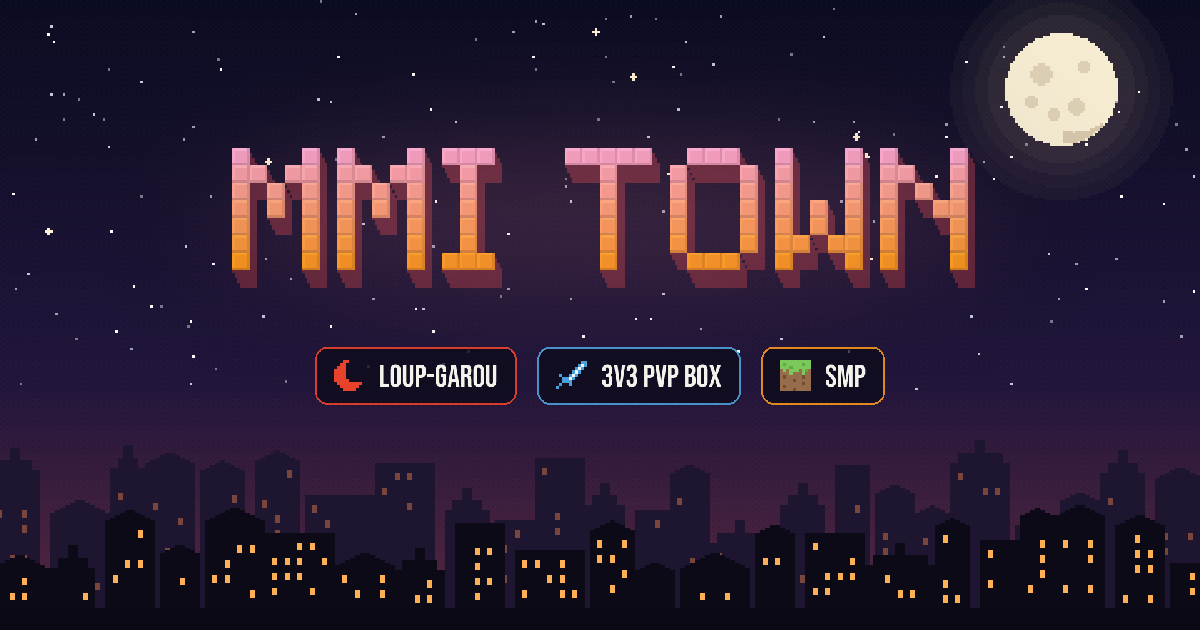
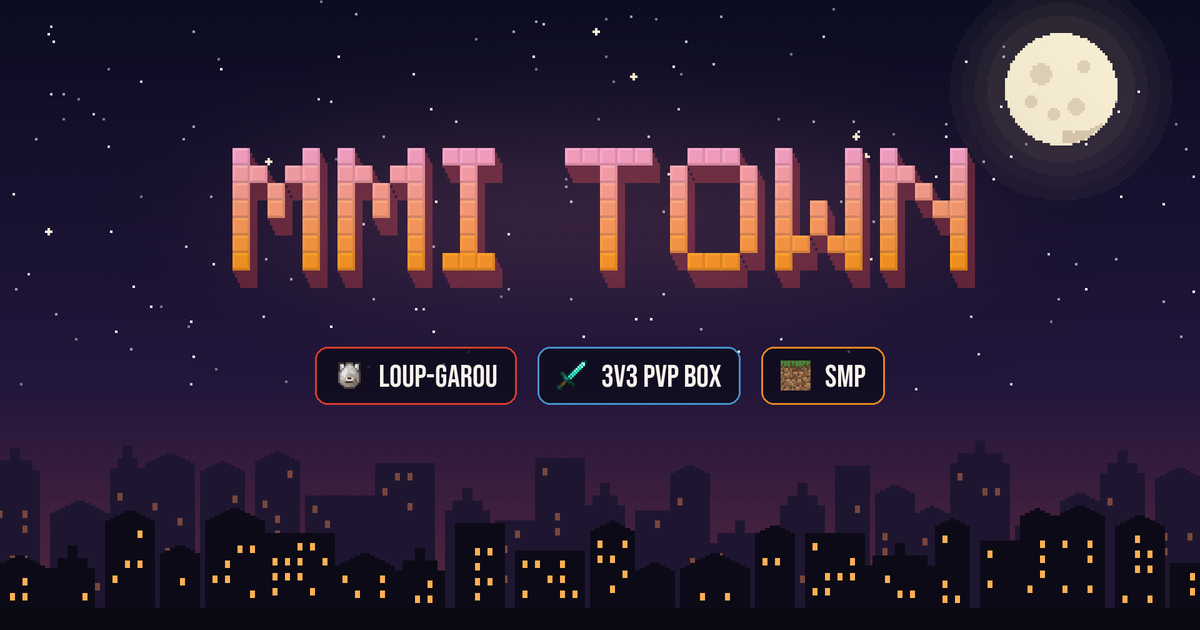
feat(assets): remplace les icones pixel-art par les textures Minecraft 26.3

Changed region(s): [[0.2775, 0.5429, 0.4317, 0.6333], [0.4625, 0.5429, 0.6167, 0.6333], [0.6475, 0.5429, 0.74, 0.6333]]

diff --git a/script.js b/script.js
@@ -8,13 +8,8 @@
   const reduceMotion = matchMedia('(prefers-reduced-motion: reduce)').matches;
   const canHover = matchMedia('(hover: hover) and (pointer: fine)').matches;
 
-  // --- Pictogrammes pixel (10x10) : '#' = couleur du metier, 'o' = reflet ---
+  // --- Pictogrammes pixel (10x10) : '#' = couleur, 'o' = reflet ---
   const ICONS = {
-    pickaxe: ['..######..', '.#..oo..#.', '#...oo...#', '....oo....', '....oo....', '....oo....', '....oo....', '....oo....', '....oo....', '..........'],
-    axe: ['....####..', '...######.', '...######.', '....####o.', '.......o..', '......o...', '.....o....', '....o.....', '...o......', '..........'],
-    wheat: ['....#.....', '...###....', '..#.#.#...', '...###....', '..#.#.#...', '...###....', '....o.....', '....o.....', '....o.....', '....o.....'],
-    sword: ['........##', '.......#o#', '......#o#.', '.....#o#..', '....#o#...', '#..#o#....', '.##o#.....', '..##......', '.#.##.....', '#.........'],
-    fish: ['..........', '..........', '..####...#', '.######.##', '#o######.#', '.######.##', '..####...#', '..........', '..........', '..........'],
     check: ['..........', '..........', '.........#', '........##', '#......##.', '.#....##..', '..#..##...', '...###....', '....#.....', '..........'],
   };
   function renderIcons(root) {
@@ -228,21 +223,21 @@
   // --- Metiers : hotbar + panneau d'infos (survol, clic, clavier) ---
   const JOBS = {
     mineur: {
-      name: 'Mineur', icon: 'pickaxe', color: '#9FB4C7',
+      name: 'Mineur', icon: 'assets/items/iron_pickaxe.png', color: '#9FB4C7',
       desc: 'Creuse les profondeurs à la recherche de minerais.',
       xp: ['Minerais : charbon, fer, or, diamant…', 'Plus le minerai est rare, plus il rapporte', 'Débris antiques : le meilleur gain'],
       perk: 'Chance de doubler les minerais',
       steps: [[10, '8 lanternes'], [20, '2 diamants'], [30, 'Pioche en diamant Efficacité III'], [40, '5 diamants'], [50, 'Lingot de netherite']],
     },
     bucheron: {
-      name: 'Bûcheron', icon: 'axe', color: '#C08A52',
+      name: 'Bûcheron', icon: 'assets/items/iron_axe.png', color: '#C08A52',
       desc: 'Abat les arbres de toutes les forêts du monde.',
       xp: ['Bûches de tous les arbres', 'Tiges du Nether'],
       perk: 'Chance de doubler les bûches',
       steps: [[10, '8 pommes'], [20, '2 pommes dorées'], [30, 'Hache en diamant Efficacité III'], [40, '4 pommes dorées'], [50, 'Pomme dorée enchantée']],
     },
     fermier: {
-      name: 'Fermier', icon: 'wheat', color: '#E6C35C',
+      name: 'Fermier', icon: 'assets/items/wheat.png', color: '#E6C35C',
       desc: 'Cultive les champs et élève les animaux.',
       xp: ['Récoltes arrivées à maturité', 'Faire se reproduire des animaux'],
       perk: 'Chance de doubler les récoltes',
@@ -250,14 +245,14 @@
       steps: [[10, '32 poudres d\'os'], [20, '16 carottes dorées'], [30, 'Houe en diamant Fortune II'], [40, '32 carottes dorées'], [50, 'Œuf de renifleur']],
     },
     chasseur: {
-      name: 'Chasseur', icon: 'sword', color: '#E8412C',
+      name: 'Chasseur', icon: 'assets/items/iron_sword.png', color: '#E8412C',
       desc: 'Protège le monde des créatures de la nuit.',
       xp: ['Tuer des monstres hostiles', 'Les boss rapportent énormément'],
       perk: 'Chance de doubler le butin et l\'XP',
       steps: [[10, '32 flèches'], [20, 'Arc Puissance III'], [30, 'Épée en diamant Tranchant III'], [40, 'Totem d\'immortalité'], [50, 'Lingot de netherite']],
     },
     pecheur: {
-      name: 'Pêcheur', icon: 'fish', color: '#4A9FD8',
+      name: 'Pêcheur', icon: 'assets/items/fishing_rod.png', color: '#4A9FD8',
       desc: 'Patient, il tire des eaux poissons et trésors.',
       xp: ['Poissons pêchés', 'Trésors : livres, selles…'],
       perk: 'Chance d\'une prise supplémentaire',
@@ -270,13 +265,6 @@
   const panel = document.getElementById('job-panel');
   const slots = [...hotbar.querySelectorAll('.slot')];
 
-  function iconSvg(name) {
-    const svg = document.createElementNS('http://www.w3.org/2000/svg', 'svg');
-    svg.setAttribute('class', 'px');
-    svg.setAttribute('aria-hidden', 'true');
-    svg.dataset.px = name;
-    return svg;
-  }
   let currentJob = '';
   function selectJob(id, focus) {
     const job = JOBS[id];
@@ -294,7 +282,7 @@
     panel.innerHTML = `
       <div class="job-body">
         <div>
-          <div class="job-head"><span data-slot-icon></span><div><h3>${job.name}</h3><small>Niveau max 50</small></div></div>
+          <div class="job-head"><img class="px" src="${job.icon}" alt="" width="64" height="64"><div><h3>${job.name}</h3><small>Niveau max 50</small></div></div>
           <p class="job-desc">${job.desc}</p>
           <div class="job-block"><h5>GAGNER DE L'XP</h5>${list(job.xp)}</div>
           <div class="job-block"><h5>BONUS</h5>${list([`${job.perk} : 0,5 % par niveau, 25 % au niveau 50`])}</div>
@@ -306,10 +294,6 @@
           <p class="job-note">Des émeraudes à chaque niveau. ${RANKS}.</p>
         </div>
       </div>`;
-    const holder = panel.querySelector('[data-slot-icon]');
-    const svg = iconSvg(job.icon);
-    holder.replaceWith(svg);
-    renderIcons(svg.parentElement);
   }
   slots.forEach((slot) => {
     slot.addEventListener('click', () => selectJob(slot.dataset.job));

diff --git a/index.html b/index.html
@@ -88,7 +88,7 @@
   <header class="section-head reveal">
     <p class="tag">&gt; modes.list</p>
     <h2>Trois façons de jouer</h2>
-    <p class="muted">Un lobby central, trois mondes séparés avec leurs propres inventaires. On choisit son mode par les portails ou avec la boussole.</p>
+    <p class="muted">Un lobby central, trois mondes séparés avec leurs propres inventaires. On choisit son mode en cliquant sur un personnage ou avec la boussole.</p>
   </header>
 
   <article class="feature reveal" id="smp" style="--c:#F7941D">
@@ -146,11 +146,11 @@
   </header>
 
   <div class="hotbar reveal" role="tablist" aria-label="Métiers du SMP" id="hotbar">
-    <button class="slot" role="tab" type="button" data-job="mineur" style="--c:#9FB4C7"><span class="num">1</span><svg class="px" data-px="pickaxe" aria-hidden="true"></svg><span class="slot-name">Mineur</span></button>
-    <button class="slot" role="tab" type="button" data-job="bucheron" style="--c:#C08A52"><span class="num">2</span><svg class="px" data-px="axe" aria-hidden="true"></svg><span class="slot-name">Bûcheron</span></button>
-    <button class="slot" role="tab" type="button" data-job="fermier" style="--c:#E6C35C"><span class="num">3</span><svg class="px" data-px="wheat" aria-hidden="true"></svg><span class="slot-name">Fermier</span></button>
-    <button class="slot" role="tab" type="button" data-job="chasseur" style="--c:#E8412C"><span class="num">4</span><svg class="px" data-px="sword" aria-hidden="true"></svg><span class="slot-name">Chasseur</span></button>
-    <button class="slot" role="tab" type="button" data-job="pecheur" style="--c:#4A9FD8"><span class="num">5</span><svg class="px" data-px="fish" aria-hidden="true"></svg><span class="slot-name">Pêcheur</span></button>
+    <button class="slot" role="tab" type="button" data-job="mineur" style="--c:#9FB4C7"><span class="num">1</span><img class="px" src="assets/items/iron_pickaxe.png" alt="" width="16" height="16"><span class="slot-name">Mineur</span></button>
+    <button class="slot" role="tab" type="button" data-job="bucheron" style="--c:#C08A52"><span class="num">2</span><img class="px" src="assets/items/iron_axe.png" alt="" width="16" height="16"><span class="slot-name">Bûcheron</span></button>
+    <button class="slot" role="tab" type="button" data-job="fermier" style="--c:#E6C35C"><span class="num">3</span><img class="px" src="assets/items/wheat.png" alt="" width="16" height="16"><span class="slot-name">Fermier</span></button>
+    <button class="slot" role="tab" type="button" data-job="chasseur" style="--c:#E8412C"><span class="num">4</span><img class="px" src="assets/items/iron_sword.png" alt="" width="16" height="16"><span class="slot-name">Chasseur</span></button>
+    <button class="slot" role="tab" type="button" data-job="pecheur" style="--c:#4A9FD8"><span class="num">5</span><img class="px" src="assets/items/fishing_rod.png" alt="" width="16" height="16"><span class="slot-name">Pêcheur</span></button>
   </div>
   <div class="job-panel" id="job-panel" role="tabpanel" aria-live="polite"></div>
 
@@ -185,7 +185,7 @@
       <li class="quest bonus">
         <span class="q-tier gold">BONUS</span>
         <span class="q-text">Termine les 3 quêtes du métier</span>
-        <span class="q-reward"><i class="gem dia"></i>1 diamant <i class="gem eme"></i>3 émeraudes</span>
+        <span class="q-reward"><img class="gem" src="assets/items/diamond.png" alt="" width="16" height="16">1 diamant <img class="gem eme" src="assets/items/emerald.png" alt="" width="16" height="16">3 émeraudes</span>
       </li>
     </ul>
   </div>
@@ -229,7 +229,7 @@
       <li class="reveal"><span class="node">1</span><div><h4>Lance Minecraft 26.3</h4><p>Java Edition. Comptes premium et non premium acceptés.</p></div></li>
       <li class="reveal"><span class="node">2</span><div><h4>Ajoute le serveur</h4><p>Multijoueur, Ajouter un serveur, puis colle <code>mmitown.xyz</code>.</p></div></li>
       <li class="reveal"><span class="node">3</span><div><h4>Crée ton compte</h4><p>Dans le chat :</p><p class="cmd">&gt; /register &lt;motdepasse&gt; &lt;confirmation&gt;</p></div></li>
-      <li class="reveal"><span class="node">4</span><div><h4>Choisis ton mode</h4><p>Traverse un portail du lobby ou ouvre la boussole.</p></div></li>
+      <li class="reveal"><span class="node">4</span><div><h4>Choisis ton mode</h4><p>Clique sur un personnage du lobby ou ouvre la boussole.</p></div></li>
     </ol>
   </div>
 </section>

diff --git a/style.css b/style.css
@@ -209,7 +209,7 @@ ul, ol { list-style: none; margin: 0; padding: 0; }
   box-shadow: inset 0 0 0 2px #1d1b2b;
   transition: transform .35s var(--ease), border-color .25s, box-shadow .35s var(--ease), color .25s;
 }
-.slot .px { color: var(--c); width: 56%; height: auto; max-width: 96px; filter: drop-shadow(4px 4px 0 rgba(0, 0, 0, .45)); transition: transform .35s var(--ease); }
+.slot .px { width: 56%; height: auto; max-width: 80px; aspect-ratio: 1; object-fit: contain; image-rendering: pixelated; filter: drop-shadow(4px 4px 0 rgba(0, 0, 0, .45)); transition: transform .35s var(--ease); }
 .slot-name { font: 400 clamp(20px, 2.4vw, 30px)/1 var(--title); letter-spacing: .04em; }
 .num { position: absolute; top: 8px; left: 10px; font: 700 10px var(--mono); text-transform: uppercase; color: #5d5b78; }
 .slot:hover { transform: translateY(-4px); color: var(--text); }
@@ -231,7 +231,7 @@ ul, ol { list-style: none; margin: 0; padding: 0; }
 .job-body { display: grid; grid-template-columns: minmax(0, 6fr) minmax(0, 5fr); gap: 0 48px; padding: 32px; animation: panel-in .45s var(--ease); }
 @keyframes panel-in { from { opacity: 0; transform: translateY(8px); } }
 .job-head { display: flex; align-items: center; gap: 18px; margin-bottom: 18px; }
-.job-head .px { width: 64px; height: 64px; color: var(--c); filter: drop-shadow(4px 4px 0 rgba(0, 0, 0, .45)); }
+.job-head .px { width: 64px; height: 64px; object-fit: contain; image-rendering: pixelated; filter: drop-shadow(4px 4px 0 rgba(0, 0, 0, .45)); flex: none; }
 .job-head h3 { font-size: clamp(40px, 4.4vw, 60px); }
 .job-head small { display: block; color: var(--c); font-size: 12px; margin-top: 6px; }
 .job-desc { margin-bottom: 22px; }
@@ -269,9 +269,8 @@ ul, ol { list-style: none; margin: 0; padding: 0; }
 .bar { height: 10px; background: rgba(0, 0, 0, .35); box-shadow: inset 0 0 0 2px rgba(255, 255, 255, .05); }
 .bar i { display: block; height: 100%; background: repeating-linear-gradient(90deg, var(--accent) 0 8px, #c3730f 8px 10px); transition: width 1.2s steps(14); }
 .quest.done .bar i { background: repeating-linear-gradient(90deg, var(--green) 0 8px, #3ba566 8px 10px); }
-.gem { display: inline-block; width: 14px; height: 14px; }
-.gem.dia { background: #4de2e8; clip-path: polygon(50% 0, 100% 40%, 50% 100%, 0 40%); }
-.gem.eme { background: var(--green); clip-path: polygon(50% 0, 100% 35%, 85% 100%, 15% 100%, 0 35%); margin-left: 6px; }
+.gem { display: inline-block; width: 18px; height: 18px; image-rendering: pixelated; vertical-align: -3px; }
+.gem.eme { margin-left: 6px; }
 
 /* ---------- REJOINDRE ---------- */
 .join-grid { display: grid; grid-template-columns: minmax(0, 7fr) minmax(0, 5fr); gap: 56px; align-items: start; }
